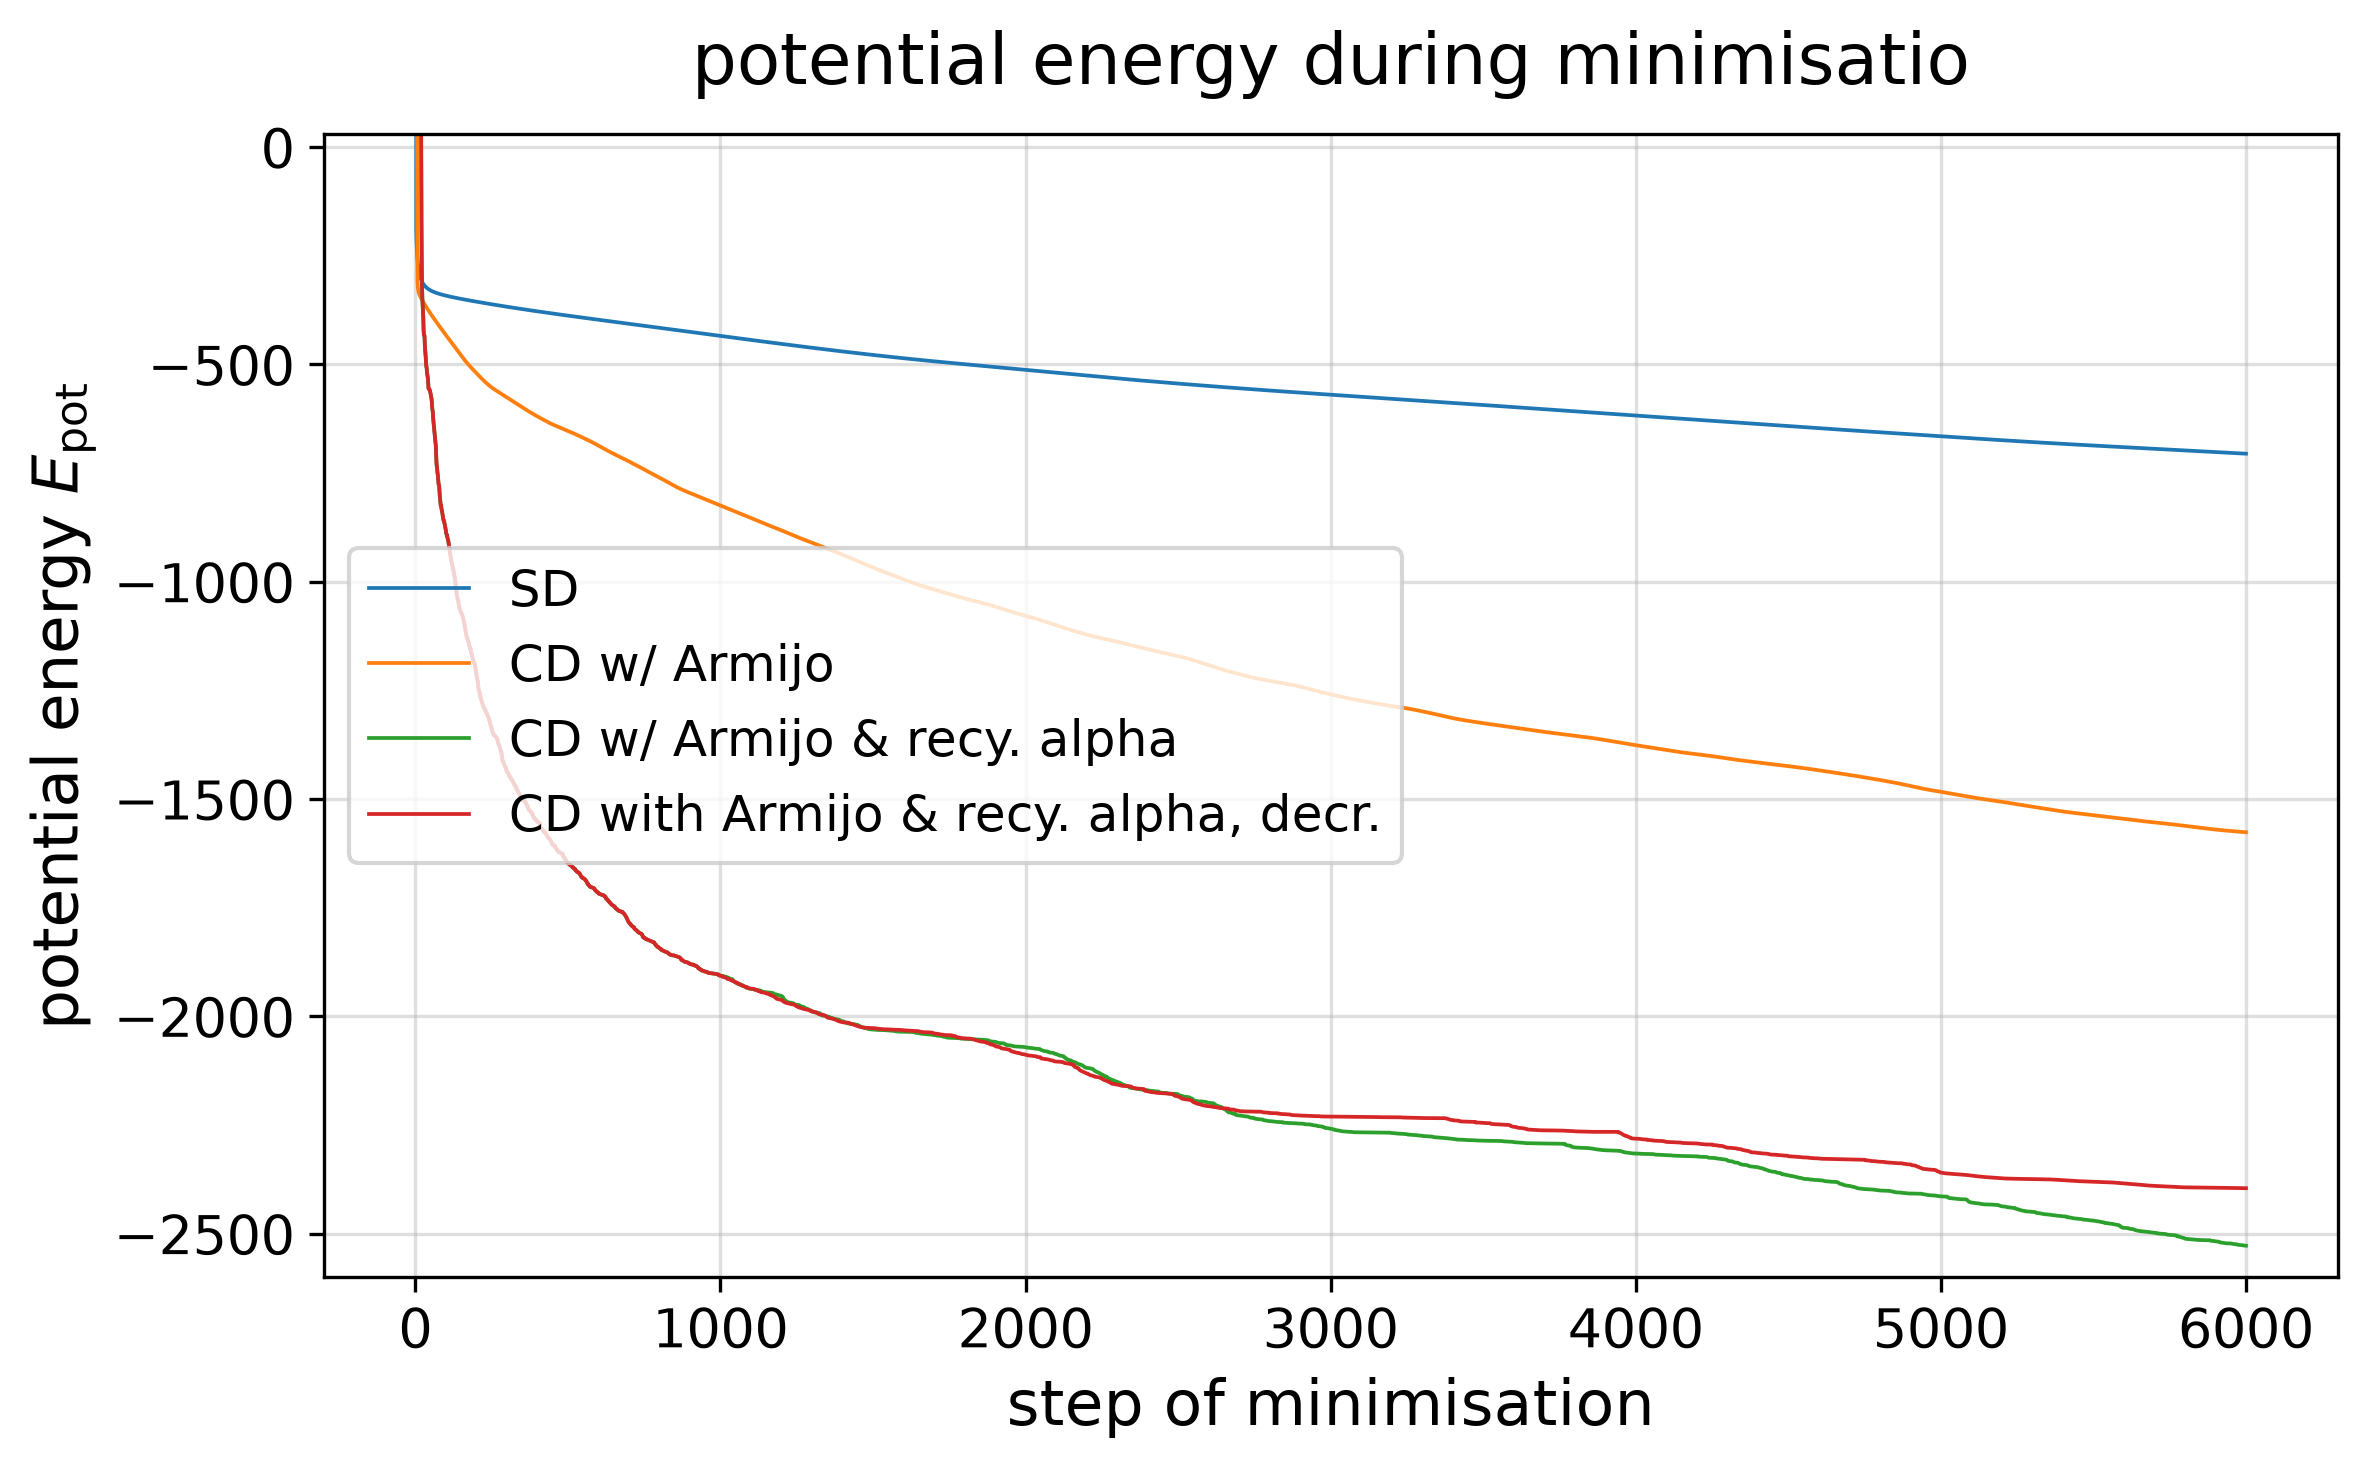
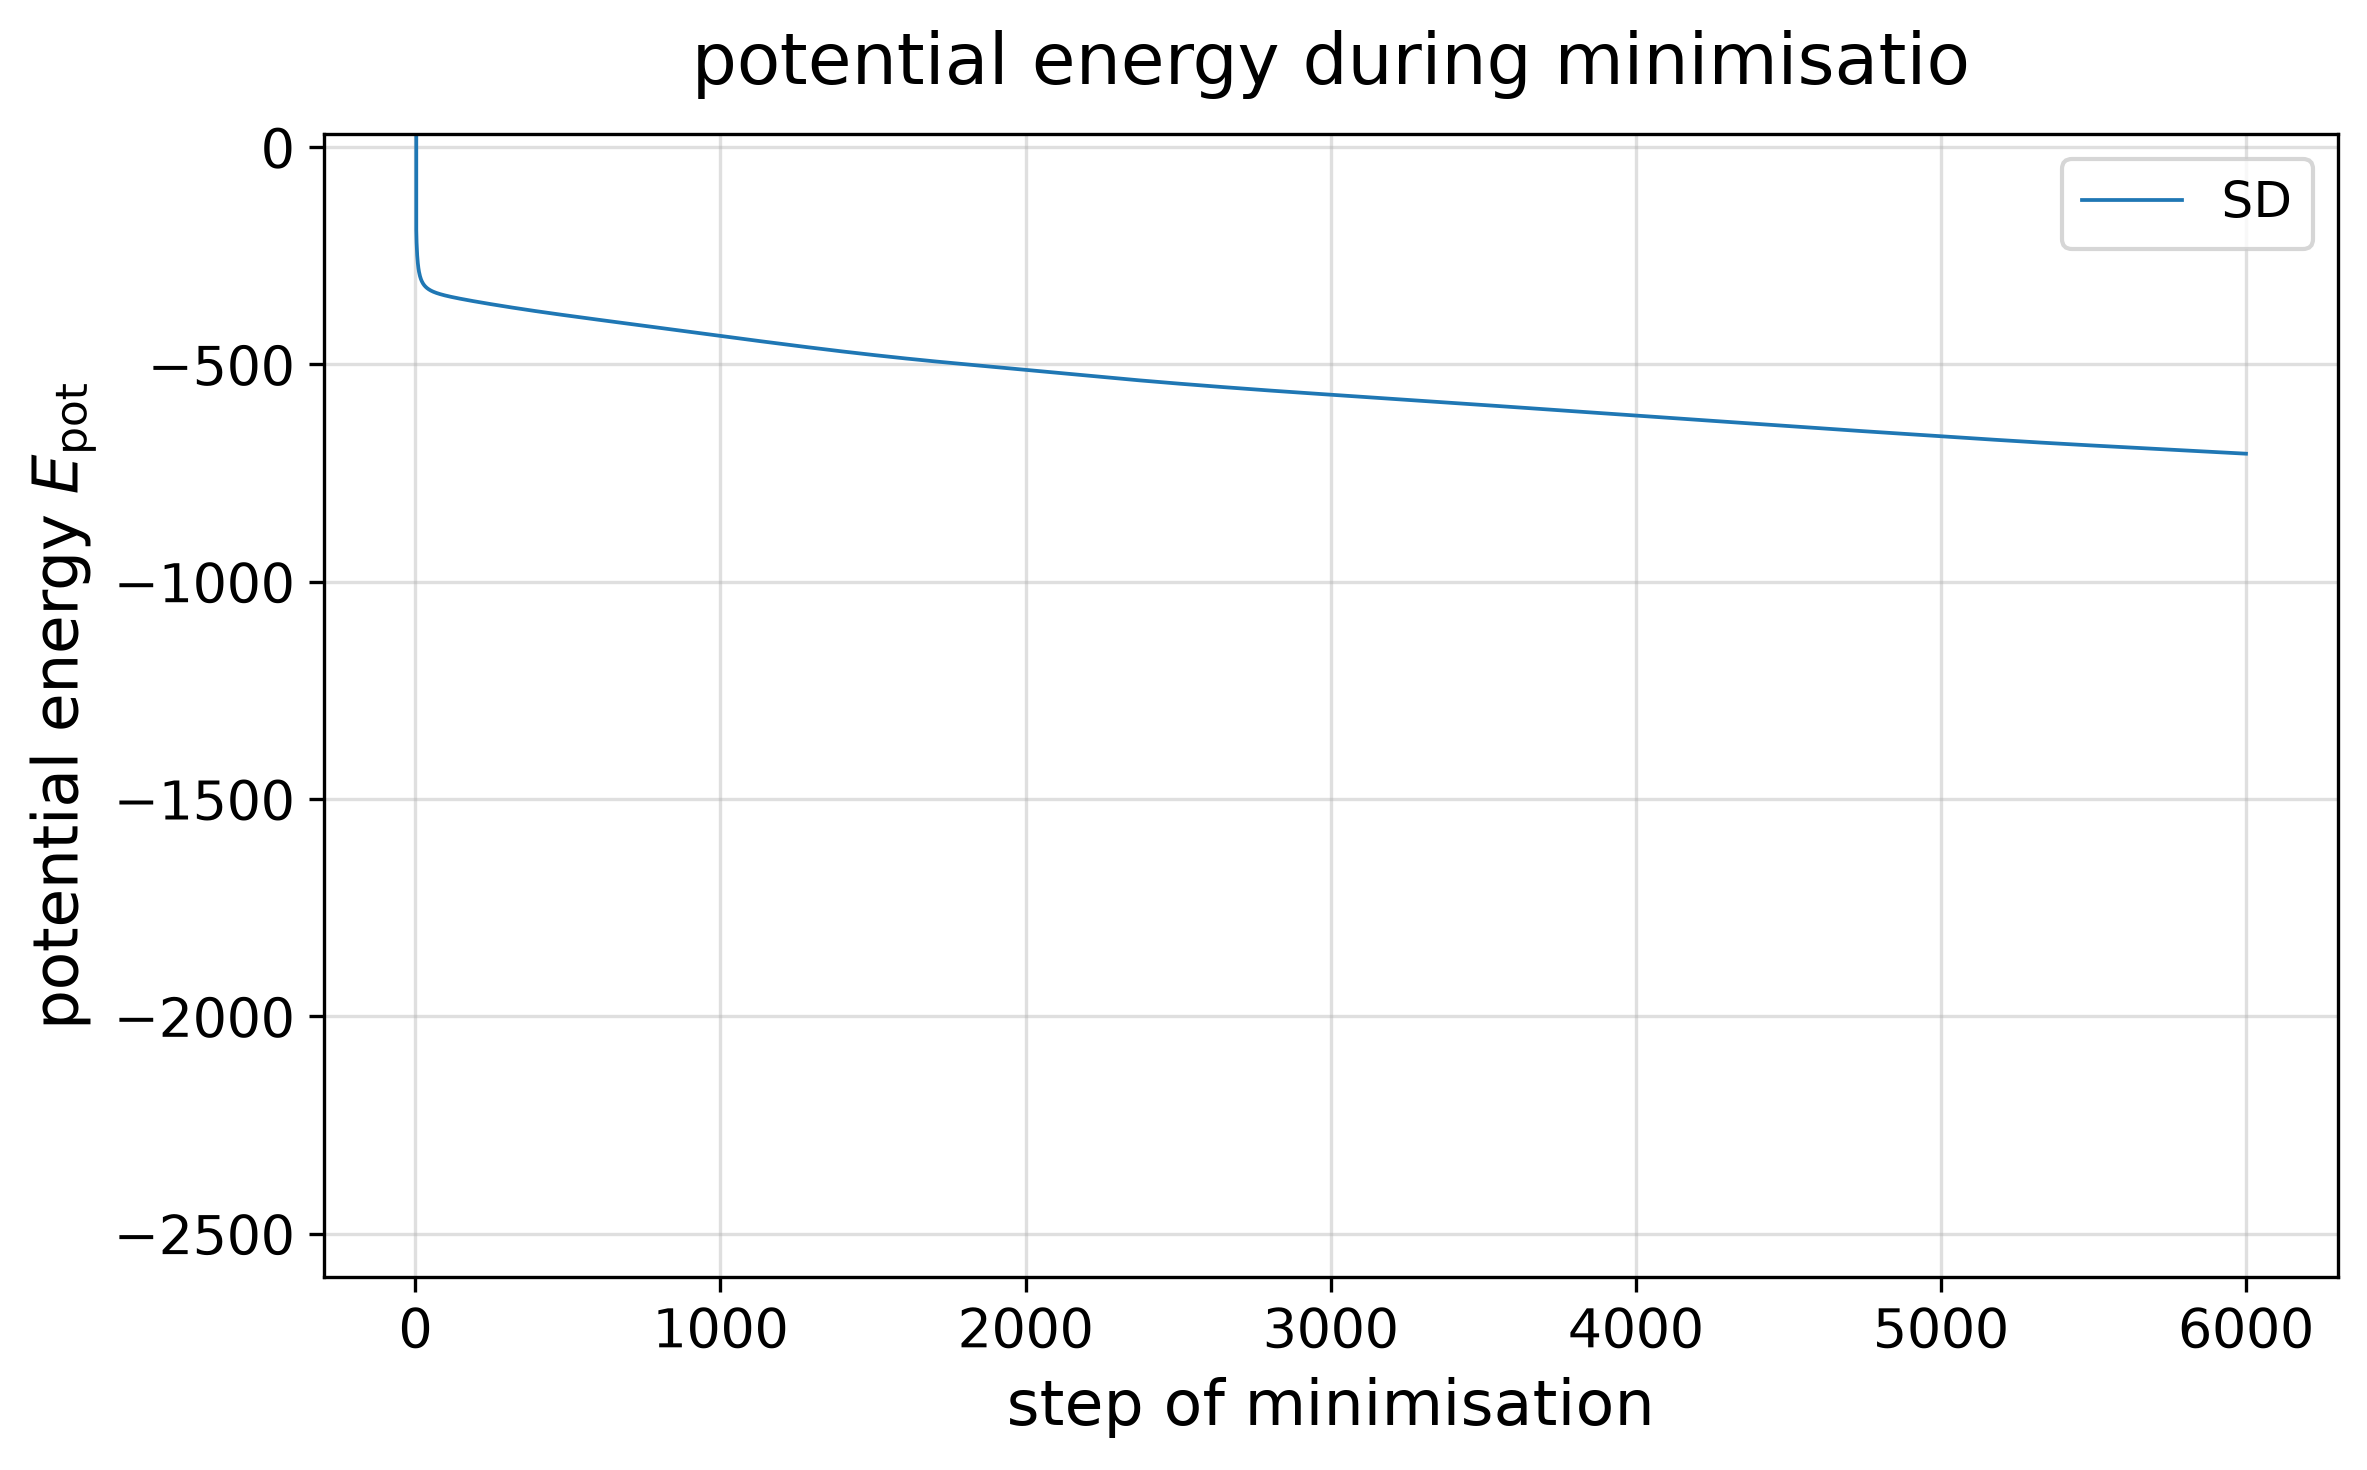
hehe

diff --git a/Methoden-vergleichen.py b/Methoden-vergleichen.py
@@ -53,6 +53,13 @@ methods = [
         "rec_alpha_value": 2.0,
         "alpha_new_idea": False,
     },
+
+]
+
+"""
+==================================================
+12
+
     {
         "label": "CD with Armijo",
         "SD": False,
@@ -77,89 +84,6 @@ methods = [
         "rec_alpha_value": 2.0,
         "alpha_new_idea": True,
     },
-]
-
-"""
-==================================================
-12
-
-methods = [
-        {
-        "label": "SD",
-        "SD": True,
-        "recoursive_alpha": True,
-        "alpha_method": "line_search",
-        "rec_alpha_value": 2.0,
-        "alpha_new_idea": False,
-    },
-        {
-        "label": "CD w/ Armijo",
-        "SD": False,
-        "recoursive_alpha": False,
-        "alpha_method": "amijo",
-        "rec_alpha_value": 2.0,
-        "alpha_new_idea": False,
-    },
-    {
-        "label": "CD w/ Armijo & recy. alpha",
-        "SD": False,
-        "recoursive_alpha": True,
-        "alpha_method": "amijo",
-        "rec_alpha_value": 2.0,
-        "alpha_new_idea": False,
-    },
-    {
-        "label": "CD with Armijo & recy. alpha, decr.",
-        "SD": False,
-        "recoursive_alpha": True,
-        "alpha_method": "amijo",
-        "rec_alpha_value": 2.0,
-        "alpha_new_idea": True,
-    },
-]
-
-
-methods = [
-    {
-        "label": "CG Armijo - alpha-1.1",
-        "SD": False,
-        "recoursive_alpha": True,
-        "alpha_method": "amijo",
-        "rec_alpha_value": 1.1,
-    },
-    {
-        "label": "CG Armijo - alpha-1.3",
-        "SD": False,
-        "recoursive_alpha": True,
-        "alpha_method": "amijo",
-        "rec_alpha_value": 1.3,
-    },
-    {
-        "label": "CG Armijo - alpha-1.6",
-        "SD": False,
-        "recoursive_alpha": True,
-        "alpha_method": "amijo",
-        "rec_alpha_value": 1.6,
-    },
-    {
-        "label": "CG Armijo - alpha-2.0",
-        "SD": False,
-        "recoursive_alpha": True,
-        "alpha_method": "amijo",
-        "rec_alpha_value": 2.0,
-    },
-]
-
-    {
-        "label": "CG armijo - a 2.0 - True",
-        "SD": False,
-        "recoursive_alpha": True,
-        "alpha_method": "amijo",
-        "rec_alpha_value": 2.0,
-        "alpha_new_idea": True,
-    },
-
-
 """
 
 
